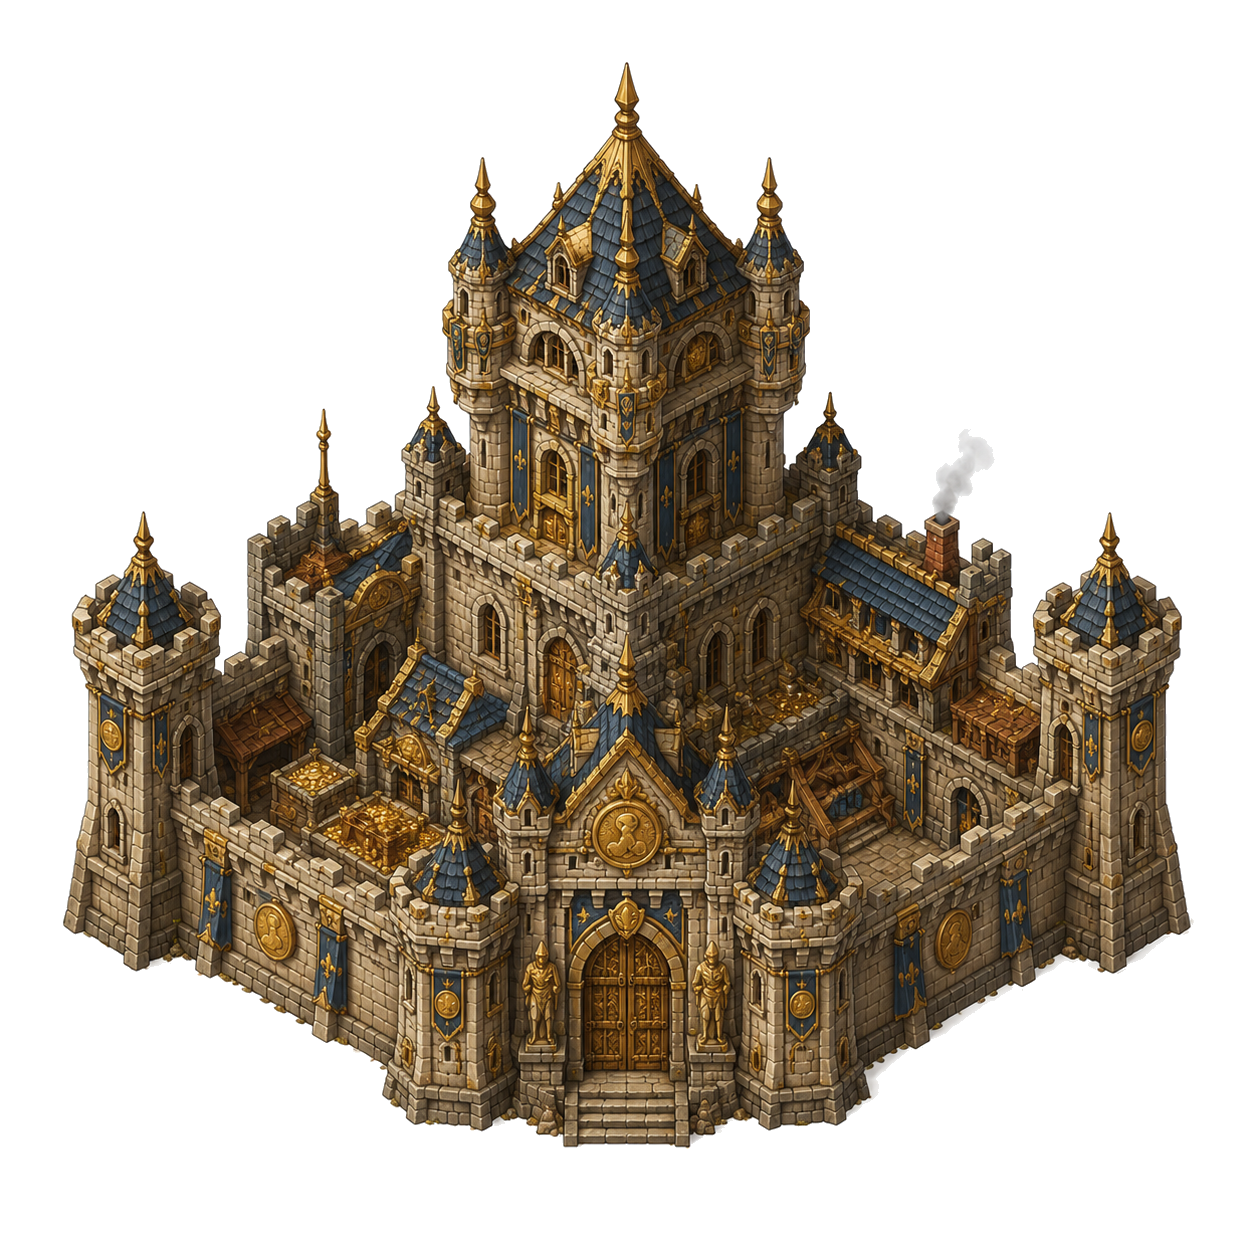
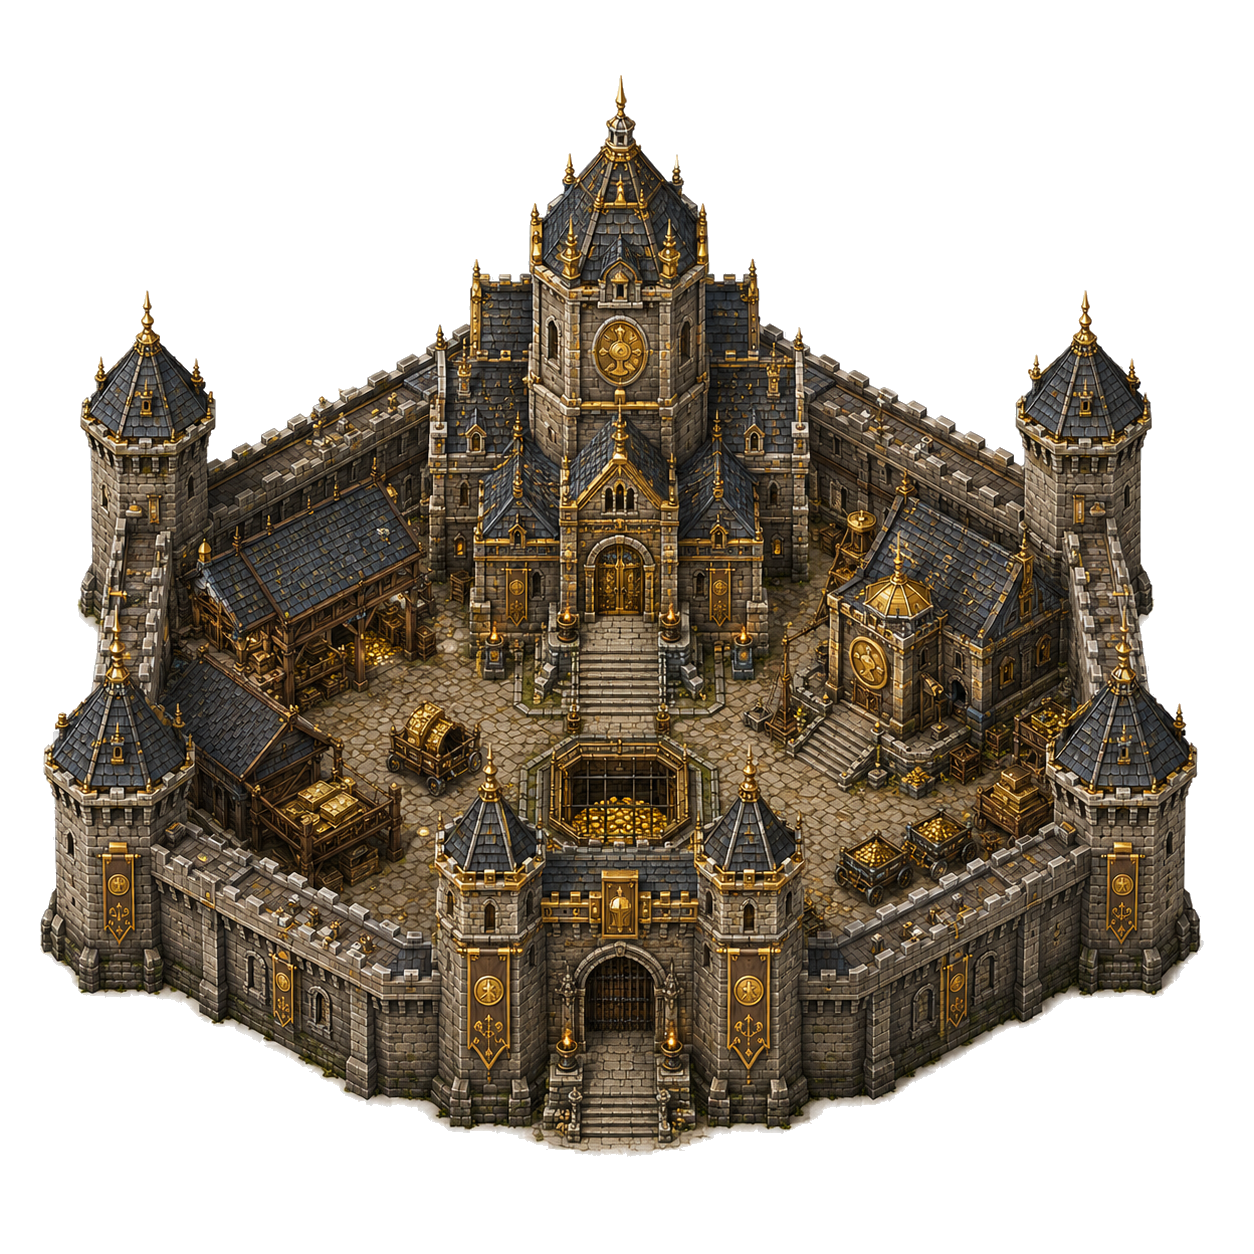
Update gold stronghold art

diff --git a/Crownlands-current-build/game.js b/Crownlands-current-build/game.js
@@ -214,7 +214,7 @@ const DEFAULT_STRONGHOLD_VISUAL_SIZE = 154;
 const MIN_STRONGHOLD_VISUAL_SIZE = 80;
 const GOLD_STRONGHOLD_ID = "west_gold_stronghold";
 const GOLD_STRONGHOLD_NAME = "Gold Stronghold";
-const GOLD_STRONGHOLD_ART_SRC = "assets/gold-stronghold.png?v=20260703-gold-stronghold-art";
+const GOLD_STRONGHOLD_ART_SRC = "assets/gold-stronghold.png?v=20260704-gold-stronghold-updated";
 const GOLD_STRONGHOLD_BONUS_PERCENT = 15;
 const GOLD_STRONGHOLD_LEVEL = 50;
 const GOLD_STRONGHOLD_START_TROOPS = 50000000;

diff --git a/game.js b/game.js
@@ -214,7 +214,7 @@ const DEFAULT_STRONGHOLD_VISUAL_SIZE = 154;
 const MIN_STRONGHOLD_VISUAL_SIZE = 80;
 const GOLD_STRONGHOLD_ID = "west_gold_stronghold";
 const GOLD_STRONGHOLD_NAME = "Gold Stronghold";
-const GOLD_STRONGHOLD_ART_SRC = "assets/gold-stronghold.png?v=20260703-gold-stronghold-art";
+const GOLD_STRONGHOLD_ART_SRC = "assets/gold-stronghold.png?v=20260704-gold-stronghold-updated";
 const GOLD_STRONGHOLD_BONUS_PERCENT = 15;
 const GOLD_STRONGHOLD_LEVEL = 50;
 const GOLD_STRONGHOLD_START_TROOPS = 50000000;
